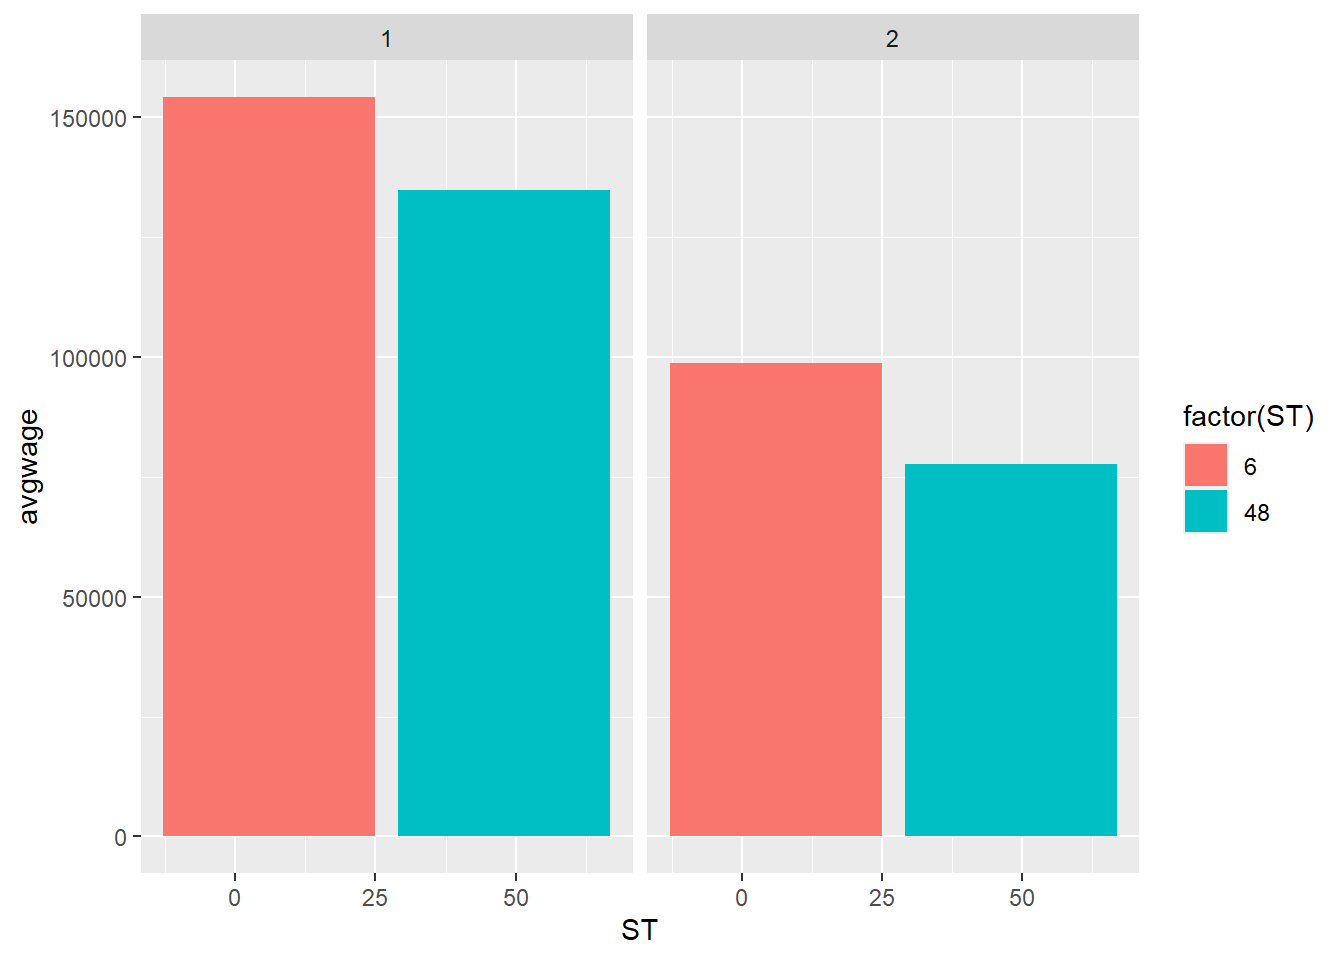
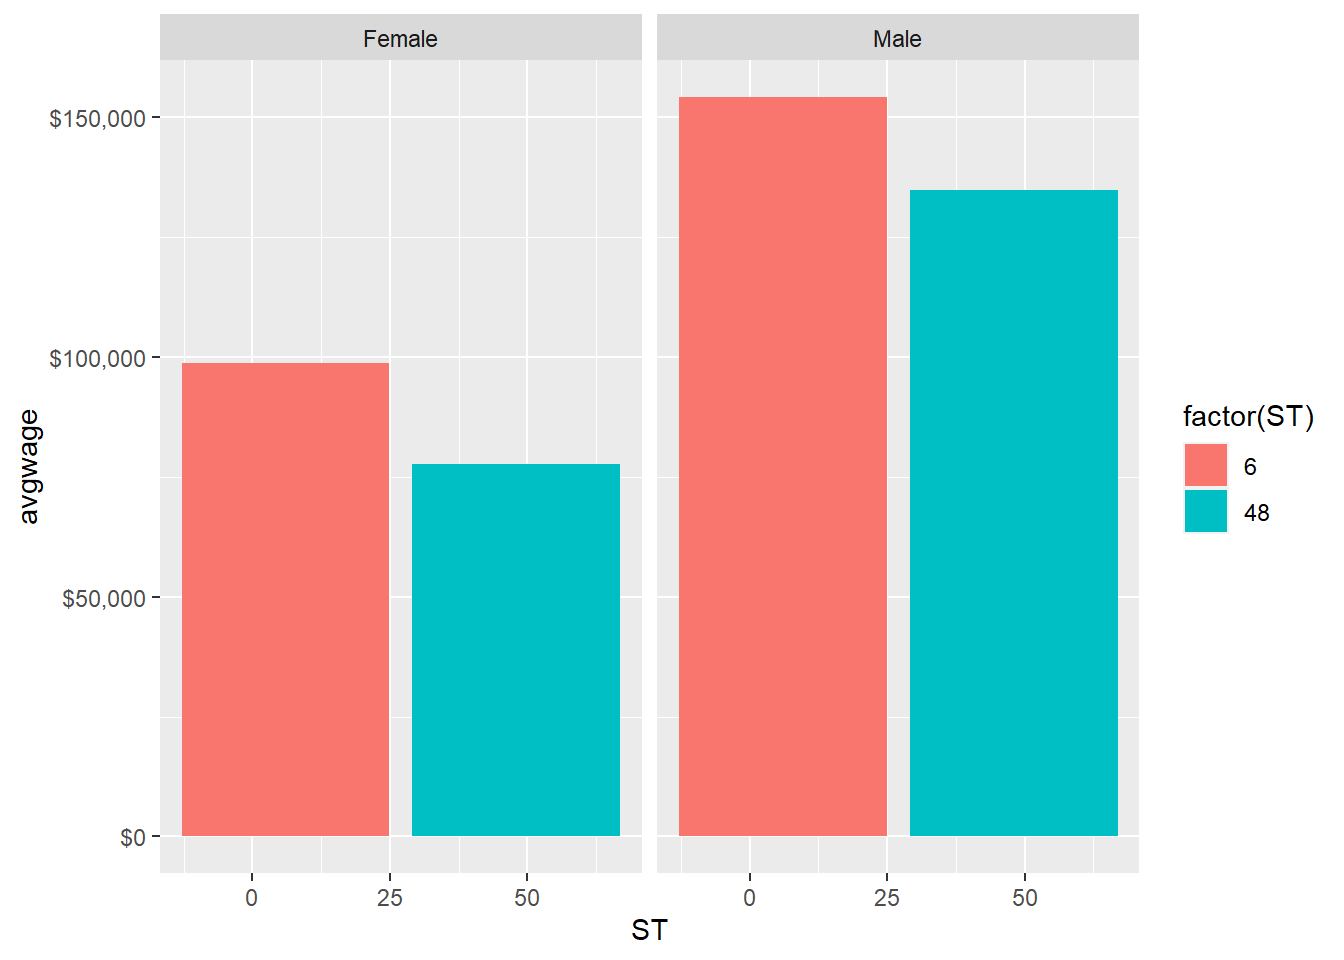
changes for day 2

diff --git a/uncf_gamma/R_SQL_Day1_add_dbplyr.html b/uncf_gamma/R_SQL_Day1_add_dbplyr.html
@@ -841,47 +841,64 @@ This warning is displayed once every 8 hours.</code></pre>
 4    48      1  50531. 28000</code></pre>
 </div>
 </div>
+<section id="see-the-query" class="level3">
+<h3 class="anchored" data-anchor-id="see-the-query">See the query!</h3>
 <div class="cell">
-<div class="sourceCode cell-code" id="cb61"><pre class="sourceCode r code-with-copy"><code class="sourceCode r"><span id="cb61-1"><a href="#cb61-1" aria-hidden="true" tabindex="-1"></a><span class="fu">library</span>(ggplot2)</span>
-<span id="cb61-2"><a href="#cb61-2" aria-hidden="true" tabindex="-1"></a>pums <span class="sc">%&gt;%</span> <span class="fu">select</span>(SERIALNO, AGEP, ST,SEX, WAGP)<span class="sc">%&gt;%</span></span>
-<span id="cb61-3"><a href="#cb61-3" aria-hidden="true" tabindex="-1"></a>  <span class="fu">filter</span>(AGEP <span class="sc">&gt;</span> <span class="dv">18</span>, WAGP <span class="sc">!=</span><span class="dv">0</span>) <span class="sc">%&gt;%</span></span>
-<span id="cb61-4"><a href="#cb61-4" aria-hidden="true" tabindex="-1"></a>  <span class="fu">mutate</span>(<span class="at">over65  =</span> <span class="fu">ifelse</span>(AGEP <span class="sc">&gt;</span><span class="dv">65</span>, <span class="dv">1</span>, <span class="dv">0</span>))<span class="sc">%&gt;%</span></span>
-<span id="cb61-5"><a href="#cb61-5" aria-hidden="true" tabindex="-1"></a>  <span class="fu">group_by</span>(ST, over65, SEX)<span class="sc">%&gt;%</span></span>
-<span id="cb61-6"><a href="#cb61-6" aria-hidden="true" tabindex="-1"></a>  <span class="fu">summarise</span>(<span class="at">avgwage =</span> <span class="fu">mean</span>(WAGP),</span>
-<span id="cb61-7"><a href="#cb61-7" aria-hidden="true" tabindex="-1"></a>            <span class="at">medwg =</span> <span class="fu">median</span>(WAGP),</span>
-<span id="cb61-8"><a href="#cb61-8" aria-hidden="true" tabindex="-1"></a>            <span class="at">samp =</span> <span class="fu">n</span>())</span></code><button title="Copy to Clipboard" class="code-copy-button"><i class="bi"></i></button></pre></div>
+<div class="sourceCode cell-code" id="cb61"><pre class="sourceCode r code-with-copy"><code class="sourceCode r"><span id="cb61-1"><a href="#cb61-1" aria-hidden="true" tabindex="-1"></a>pums <span class="sc">%&gt;%</span> <span class="fu">select</span>(SERIALNO, AGEP, ST, WAGP)<span class="sc">%&gt;%</span></span>
+<span id="cb61-2"><a href="#cb61-2" aria-hidden="true" tabindex="-1"></a>  <span class="fu">filter</span>(AGEP <span class="sc">&gt;</span> <span class="dv">18</span>, WAGP <span class="sc">!=</span><span class="dv">0</span>) <span class="sc">%&gt;%</span></span>
+<span id="cb61-3"><a href="#cb61-3" aria-hidden="true" tabindex="-1"></a>  <span class="fu">mutate</span>(<span class="at">over65  =</span> <span class="fu">ifelse</span>(AGEP <span class="sc">&gt;</span><span class="dv">65</span>, <span class="dv">1</span>, <span class="dv">0</span>))<span class="sc">%&gt;%</span></span>
+<span id="cb61-4"><a href="#cb61-4" aria-hidden="true" tabindex="-1"></a>  <span class="fu">group_by</span>(ST, over65)<span class="sc">%&gt;%</span></span>
+<span id="cb61-5"><a href="#cb61-5" aria-hidden="true" tabindex="-1"></a>  <span class="fu">summarise</span>(<span class="at">avgwage =</span> <span class="fu">mean</span>(WAGP),</span>
+<span id="cb61-6"><a href="#cb61-6" aria-hidden="true" tabindex="-1"></a>            <span class="at">medwg =</span> <span class="fu">median</span>(WAGP),</span>
+<span id="cb61-7"><a href="#cb61-7" aria-hidden="true" tabindex="-1"></a>            <span class="at">samp =</span> <span class="fu">n</span>())<span class="sc">%&gt;%</span></span>
+<span id="cb61-8"><a href="#cb61-8" aria-hidden="true" tabindex="-1"></a>  <span class="fu">show_query</span>()</span></code><button title="Copy to Clipboard" class="code-copy-button"><i class="bi"></i></button></pre></div>
 <div class="cell-output cell-output-stderr">
-<pre><code>`summarise()` has grouped output by "ST" and "over65". You can override using
-the `.groups` argument.</code></pre>
+<pre><code>`summarise()` has grouped output by "ST". You can override using the `.groups`
+argument.</code></pre>
 </div>
 <div class="cell-output cell-output-stdout">
-<pre><code># Source:   SQL [8 x 6]
-# Database: sqlite 3.39.2 [C:\Users\ozd504\OneDrive - University of Texas at San Antonio\PUMS_data]
-# Groups:   ST, over65
-     ST over65   SEX avgwage medwg  samp
-  &lt;int&gt;  &lt;dbl&gt; &lt;int&gt;   &lt;dbl&gt; &lt;dbl&gt; &lt;int&gt;
-1     6      0     1  77911. 50000 86426
-2     6      0     2  54789. 38000 78675
-3     6      1     1  76114. 41250  5766
-4     6      1     2  43820. 24400  4809
-5    48      0     1  69530. 50000 60058
-6    48      0     2  43916. 32000 54917
-7    48      1     1  65104. 36000  4595
-8    48      1     2  33790. 20400  4000</code></pre>
+<pre><code>&lt;SQL&gt;
+SELECT
+  `ST`,
+  `over65`,
+  AVG(`WAGP`) AS `avgwage`,
+  MEDIAN(`WAGP`) AS `medwg`,
+  COUNT(*) AS `samp`
+FROM (
+  SELECT
+    *,
+    CASE WHEN (`AGEP` &gt; 65.0) THEN 1.0 WHEN NOT (`AGEP` &gt; 65.0) THEN 0.0 END AS `over65`
+  FROM (
+    SELECT `SERIALNO`, `AGEP`, `ST`, `WAGP`
+    FROM `pums_tx_ca`
+  )
+  WHERE (`AGEP` &gt; 18.0) AND (`WAGP` != 0.0)
+)
+GROUP BY `ST`, `over65`</code></pre>
 </div>
 </div>
+</section>
+<section id="use-the-output-of-the-query-in-graph" class="level3">
+<h3 class="anchored" data-anchor-id="use-the-output-of-the-query-in-graph">Use the output of the query in graph</h3>
 <div class="cell">
-<div class="sourceCode cell-code" id="cb64"><pre class="sourceCode r code-with-copy"><code class="sourceCode r"><span id="cb64-1"><a href="#cb64-1" aria-hidden="true" tabindex="-1"></a>pums <span class="sc">%&gt;%</span> <span class="fu">select</span>(SERIALNO, AGEP, ST,SEX, WAGP)<span class="sc">%&gt;%</span></span>
-<span id="cb64-2"><a href="#cb64-2" aria-hidden="true" tabindex="-1"></a>  <span class="fu">filter</span>(AGEP <span class="sc">&gt;</span> <span class="dv">18</span>, WAGP <span class="sc">!=</span><span class="dv">0</span>) <span class="sc">%&gt;%</span></span>
-<span id="cb64-3"><a href="#cb64-3" aria-hidden="true" tabindex="-1"></a>  <span class="fu">mutate</span>(<span class="at">over65  =</span> <span class="fu">ifelse</span>(AGEP <span class="sc">&gt;</span><span class="dv">65</span>, <span class="dv">1</span>, <span class="dv">0</span>))<span class="sc">%&gt;%</span></span>
-<span id="cb64-4"><a href="#cb64-4" aria-hidden="true" tabindex="-1"></a>  <span class="fu">group_by</span>(ST, over65, SEX)<span class="sc">%&gt;%</span></span>
-<span id="cb64-5"><a href="#cb64-5" aria-hidden="true" tabindex="-1"></a>  <span class="fu">summarise</span>(<span class="at">avgwage =</span> <span class="fu">mean</span>(WAGP),</span>
-<span id="cb64-6"><a href="#cb64-6" aria-hidden="true" tabindex="-1"></a>            <span class="at">medwg =</span> <span class="fu">median</span>(WAGP),</span>
-<span id="cb64-7"><a href="#cb64-7" aria-hidden="true" tabindex="-1"></a>            <span class="at">samp =</span> <span class="fu">n</span>()) <span class="sc">%&gt;%</span></span>
-<span id="cb64-8"><a href="#cb64-8" aria-hidden="true" tabindex="-1"></a>  <span class="fu">ggplot</span>()<span class="sc">+</span></span>
-<span id="cb64-9"><a href="#cb64-9" aria-hidden="true" tabindex="-1"></a>  <span class="fu">aes</span>(<span class="at">x =</span> ST, <span class="at">y =</span> avgwage, <span class="at">fill=</span><span class="fu">factor</span>(ST))<span class="sc">+</span></span>
-<span id="cb64-10"><a href="#cb64-10" aria-hidden="true" tabindex="-1"></a>  <span class="fu">geom_bar</span>(<span class="at">stat=</span><span class="st">"identity"</span>)<span class="sc">+</span></span>
-<span id="cb64-11"><a href="#cb64-11" aria-hidden="true" tabindex="-1"></a>  <span class="fu">facet_wrap</span>(<span class="sc">~</span>SEX)</span></code><button title="Copy to Clipboard" class="code-copy-button"><i class="bi"></i></button></pre></div>
+<div class="sourceCode cell-code" id="cb64"><pre class="sourceCode r code-with-copy"><code class="sourceCode r"><span id="cb64-1"><a href="#cb64-1" aria-hidden="true" tabindex="-1"></a><span class="fu">library</span>(ggplot2)</span>
+<span id="cb64-2"><a href="#cb64-2" aria-hidden="true" tabindex="-1"></a></span>
+<span id="cb64-3"><a href="#cb64-3" aria-hidden="true" tabindex="-1"></a>pums <span class="sc">%&gt;%</span></span>
+<span id="cb64-4"><a href="#cb64-4" aria-hidden="true" tabindex="-1"></a>  <span class="fu">select</span>(SERIALNO, AGEP, ST,SEX, WAGP)<span class="sc">%&gt;%</span></span>
+<span id="cb64-5"><a href="#cb64-5" aria-hidden="true" tabindex="-1"></a>  <span class="fu">filter</span>(AGEP <span class="sc">&gt;</span> <span class="dv">18</span>, WAGP <span class="sc">!=</span><span class="dv">0</span>) <span class="sc">%&gt;%</span></span>
+<span id="cb64-6"><a href="#cb64-6" aria-hidden="true" tabindex="-1"></a>  <span class="fu">mutate</span>(<span class="at">over65  =</span> <span class="fu">ifelse</span>(AGEP <span class="sc">&gt;</span><span class="dv">65</span>, <span class="dv">1</span>, <span class="dv">0</span>),</span>
+<span id="cb64-7"><a href="#cb64-7" aria-hidden="true" tabindex="-1"></a>         <span class="at">gender =</span> <span class="fu">ifelse</span>(SEX <span class="sc">==</span><span class="dv">1</span> , <span class="st">"Male"</span>, <span class="st">"Female"</span>))<span class="sc">%&gt;%</span></span>
+<span id="cb64-8"><a href="#cb64-8" aria-hidden="true" tabindex="-1"></a>  <span class="fu">group_by</span>(ST, over65, gender)<span class="sc">%&gt;%</span></span>
+<span id="cb64-9"><a href="#cb64-9" aria-hidden="true" tabindex="-1"></a>  <span class="fu">summarise</span>(<span class="at">avgwage =</span> <span class="fu">mean</span>(WAGP),</span>
+<span id="cb64-10"><a href="#cb64-10" aria-hidden="true" tabindex="-1"></a>            <span class="at">medwg =</span> <span class="fu">median</span>(WAGP),</span>
+<span id="cb64-11"><a href="#cb64-11" aria-hidden="true" tabindex="-1"></a>            <span class="at">samp =</span> <span class="fu">n</span>()) <span class="sc">%&gt;%</span></span>
+<span id="cb64-12"><a href="#cb64-12" aria-hidden="true" tabindex="-1"></a>  <span class="fu">ggplot</span>()<span class="sc">+</span></span>
+<span id="cb64-13"><a href="#cb64-13" aria-hidden="true" tabindex="-1"></a>  <span class="fu">aes</span>(<span class="at">x =</span> ST,</span>
+<span id="cb64-14"><a href="#cb64-14" aria-hidden="true" tabindex="-1"></a>      <span class="at">y =</span> avgwage,</span>
+<span id="cb64-15"><a href="#cb64-15" aria-hidden="true" tabindex="-1"></a>      <span class="at">fill=</span><span class="fu">factor</span>(ST))<span class="sc">+</span></span>
+<span id="cb64-16"><a href="#cb64-16" aria-hidden="true" tabindex="-1"></a>  <span class="fu">geom_bar</span>(<span class="at">stat=</span><span class="st">"identity"</span>)<span class="sc">+</span></span>
+<span id="cb64-17"><a href="#cb64-17" aria-hidden="true" tabindex="-1"></a>  <span class="fu">facet_wrap</span>(<span class="sc">~</span>gender) <span class="sc">+</span></span>
+<span id="cb64-18"><a href="#cb64-18" aria-hidden="true" tabindex="-1"></a>  <span class="fu">scale_y_continuous</span>(<span class="at">labels =</span> scales<span class="sc">::</span><span class="fu">label_dollar</span>())</span></code><button title="Copy to Clipboard" class="code-copy-button"><i class="bi"></i></button></pre></div>
 <div class="cell-output cell-output-stderr">
 <pre><code>`summarise()` has grouped output by "ST" and "over65". You can override using
 the `.groups` argument.</code></pre>
@@ -890,7 +907,7 @@ the `.groups` argument.</code></pre>
 <p><img src="R_SQL_Day1_add_dbplyr_files/figure-html/unnamed-chunk-26-1.png" class="img-fluid" width="672"></p>
 </div>
 </div>
-<p>```</p>
+</section>
 </section>
 
 </main>
